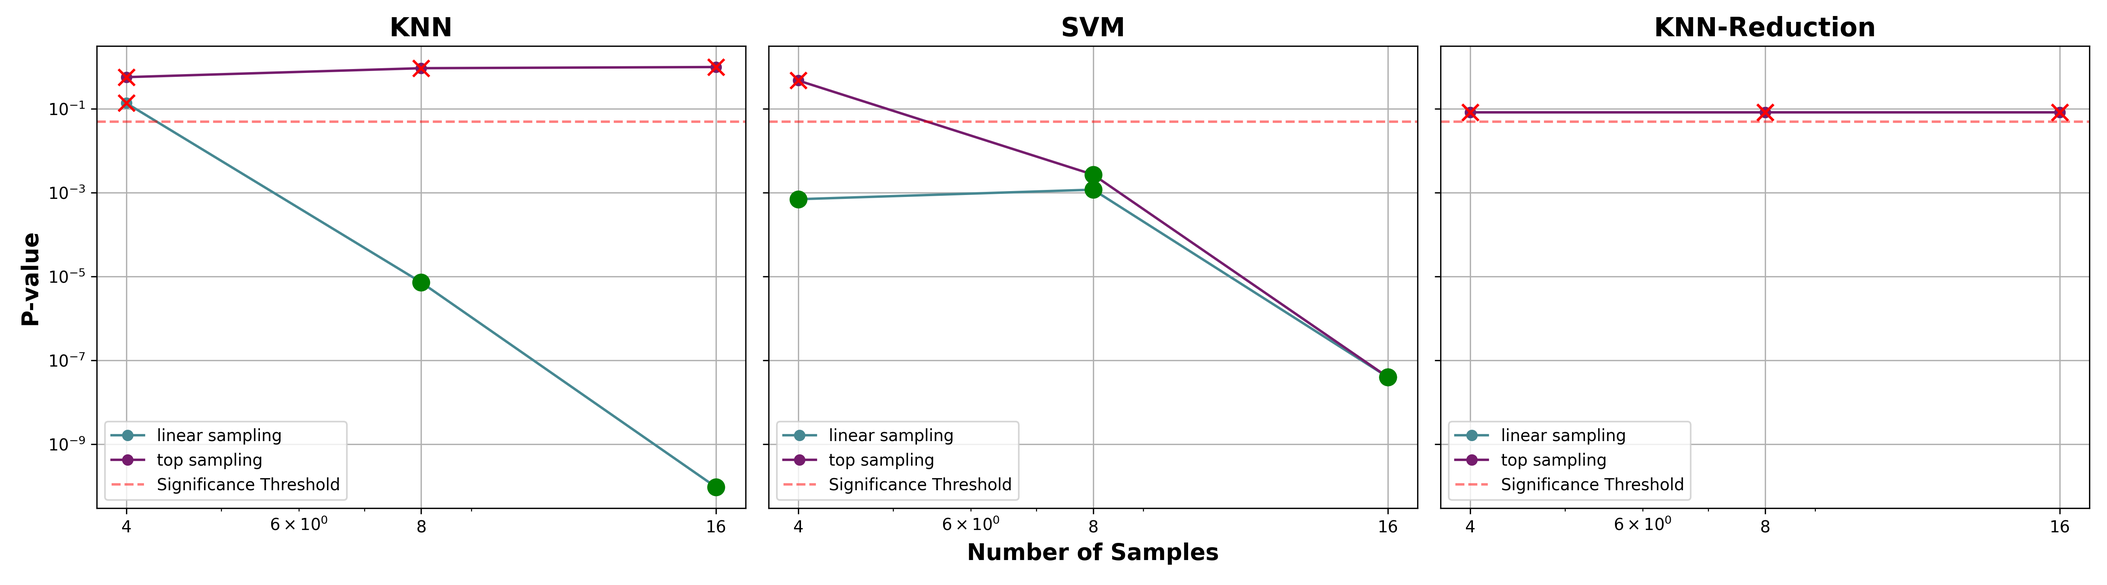
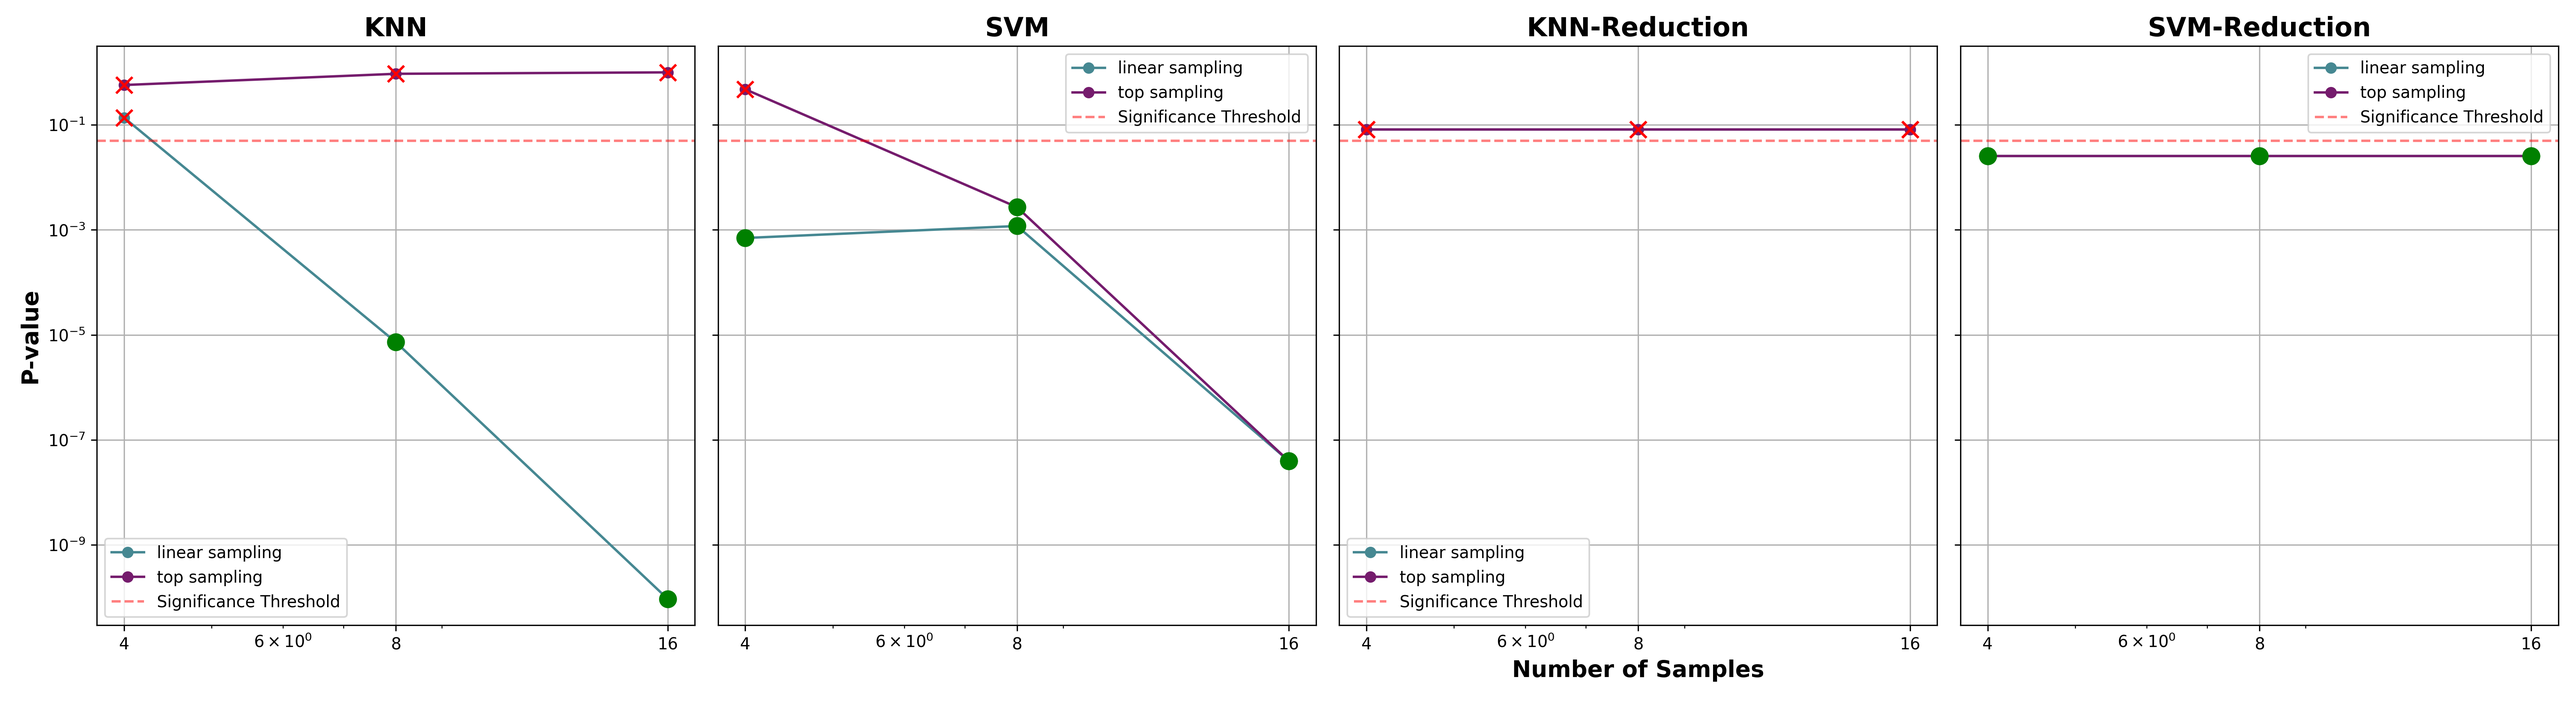
mention nemenyi test in reduction section

diff --git a/work2/reports/04-results-and-analysis/04.4-discussion-reduction.tex b/work2/reports/04-results-and-analysis/04.4-discussion-reduction.tex
@@ -3,8 +3,7 @@
 
 This section examines the impact of three reduction techniques—GCNN, ENNTH, and Drop3—on the performance, training time, testing time, and storage requirements of both the KNN and SVM algorithms.
 
-\subsection*{Hepatitis Dataset Results}
-\subsubsection*{KNN Results}
+\subsubsection{KNN Results}
 In our analysis of the Hepatitis dataset, we observed that applying reduction techniques
 for K-Nearest Neighbors (KNN) resulted in F1 scores similar to those obtained without any reduction.
 However, the Drop3 method saw a slight decrease in mean F1 score from 0.948 to 0.864. 
@@ -30,21 +29,20 @@ In contrast, GCNN demonstrated a substantial 50\% reduction in storage, with a o
     \label{fig:KNN-reduction-effects}
 \end{figure}
 
-\subsubsection*{SVM Results}
+\subsubsection{SVM Results}
 
-Similarly, applying the SVM model to the reduced Hepatitis dataset yielded comparable results in terms of F1 scores,
+\paragraph{Hepatitis Dataset} Similarly, applying the SVM model to the reduced Hepatitis dataset yielded comparable results in terms of F1 scores,
 with all accuracies remaining similar; however, the Drop3 method did result in a slight decline in accuracy.
 
 Additionally, the training and testing times were largely consistent with those observed when no reduction was applied,
 which can be attributed to the relatively small size of the dataset.
 
-\subsection*{Mushroom Dataset}
-In contrast, the larger Mushroom dataset demonstrated different outcomes.
+\paragraph{Mushroom Dataset} In contrast, the larger Mushroom dataset demonstrated different outcomes.
 Here, GCNN significantly reduced both training and testing times. 
 Specifically, while using KNN with GCNN reduction achieved a one-third reduction in training time,\\
 SVM with GCNN reduction realized an impressive approximate 70\% decrease. 
 
-For testing times, KNN with GCNN reductio saw a 50\% reduction, whereas in the case of SVM with GCNN reduction, the reduction was closer to one-third.
+For testing times, KNN with GCNN reduction saw a 50\% reduction, whereas in the case of SVM with GCNN reduction, the reduction was closer to one-third.
 
 \begin{figure}
     \centering
@@ -54,5 +52,17 @@ For testing times, KNN with GCNN reductio saw a 50\% reduction, whereas in the c
     \label{fig:SVM-reduction-effects}
 \end{figure}
 
+\begin{figure}
+    \centering
+    \includegraphics[width=0.5\textwidth]{figures/nemenyi_test_results_SVM_Reduction_mushroom.png}
+    \caption{Nemenyi test results for SVM-Reduction models for the Mushroom dataset}
+    \label{fig:nemenyi-svm-reduction-mushroom}
+\end{figure}
 
+\input{tables/svm_reduction_significant_pairs_mushroom.tex}
+
+
+\paragraph{Friedman and Nemenyi Tests} Given that the Friedman test showed statistical significance for the hepatitis dataset \autoref{tab:friedman_test_results_hepatitis}, we conducted the Nemenyi post-hoc test to identify specific significant differences between reduction methods. 
+For the SVM models on the Hepatitis dataset, the test revealed significant differences between GCNN (p < 0.05) and the other methods, with GCNN performing worse in terms of F1 score (see \autoref{fig:nemenyi-svm-reduction-mushroom}).
+This is loss in performance may be worth the gains in training time in certain cases.
 

diff --git a/work2/tools/analysis/run_statistical_analysis.py b/work2/tools/analysis/run_statistical_analysis.py
@@ -27,7 +27,7 @@ FIGURES_DIR = os.path.join(SCRIPT_DIR, "../../reports/figures")
 TABLES_DIR = os.path.join(SCRIPT_DIR, "../../reports/tables")
 
 parser = argparse.ArgumentParser()
-parser.add_argument("--dataset_name", type=str, default="mushroom")
+parser.add_argument("--dataset_name", type=str, default="hepatitis")
 parser.add_argument("--f", type=str, default="")
 parser.add_argument("--verbose", "-v", action="store_true")
 args = parser.parse_args()

diff --git a/work2/reports/tables/svm_knn_wilcoxon_comparison_hepatitis.tex b/work2/reports/tables/svm_knn_wilcoxon_comparison_hepatitis.tex
@@ -1,0 +1,14 @@
+\begin{table}
+\centering
+\caption{Wilcoxon Signed-Rank Test Results for SVM and KNN Models for Hepatitis}
+\label{tab:svm_knn_wilcoxon_comparison_hepatitis}
+\begin{tabular}{lr}
+\toprule
+metric & p_value \\
+\midrule
+F1 Score & 1.000 \\
+Train Time & 0.002 \\
+Test Time & 0.002 \\
+\bottomrule
+\end{tabular}
+\end{table}

diff --git a/work2/reports/tables/SVM-Reduction_legend.tex b/work2/reports/tables/SVM-Reduction_legend.tex
@@ -6,10 +6,10 @@
 \toprule
 Model Label & C & Kernel Type \\
 \midrule
-CtrlC5Poly & 5 & poly \\
-GcnnC5Poly & 5 & poly \\
-EnnthC5Poly & 5 & poly \\
-Drop3C5Poly & 5 & poly \\
+CtrlC50Rbf & 50 & rbf \\
+GcnnC50Rbf & 50 & rbf \\
+EnnthC50Rbf & 50 & rbf \\
+Drop3C50Rbf & 50 & rbf \\
 \bottomrule
 \end{tabular}
 \end{table}

diff --git a/work2/reports/tables/svm_reduction_significant_pairs_hepatitis.tex b/work2/reports/tables/svm_reduction_significant_pairs_hepatitis.tex
@@ -1,0 +1,11 @@
+\begin{table}
+\centering
+\caption{Significant Differences in SVM-Reduction Models for Hepatitis}
+\label{tab:svm_reduction_significant_pairs_hepatitis}
+\begin{tabular}{rlr}
+\toprule
+C & Kernel Type & Mean F1 \\
+\midrule
+\bottomrule
+\end{tabular}
+\end{table}
